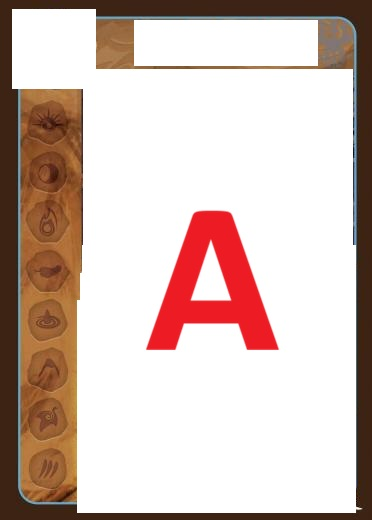
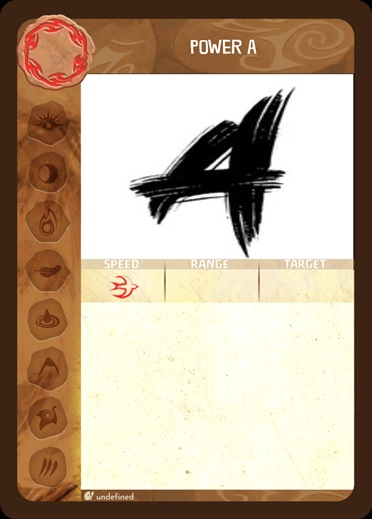
1. Replaced art with better art made by Sloverlord 2. Fixed all cards speed to slow 3. Changed tracks to 7 spots per row 4. Gave spirit a custom resource tracker

diff --git a/pbf/migrations/0066_add_custom_placeholder_spirit.py b/pbf/migrations/0066_add_custom_placeholder_spirit.py
@@ -6,12 +6,12 @@ def load_custom(apps, schema_editor):
     Card = apps.get_model("pbf", "Card")
     mijn = Spirit(name="CustomPlaceholder")
     mijn.save()
-    Card(name="CustomPlaceholder Card A", cost=0, type=2, speed=0, spirit=mijn, elements="").save()
-    Card(name="CustomPlaceholder Card B", cost=0, type=2, speed=0, spirit=mijn, elements="").save()
-    Card(name="CustomPlaceholder Card C", cost=0, type=2, speed=1, spirit=mijn, elements="").save()
-    Card(name="CustomPlaceholder Card D", cost=0, type=2, speed=0, spirit=mijn, elements="").save()
-    Card(name="CustomPlaceholder Card E", cost=0, type=2, speed=0, spirit=mijn, elements="").save()
-    Card(name="CustomPlaceholder Card F", cost=0, type=2, speed=0, spirit=mijn, elements="").save()
+    Card(name="CustomPlaceholder Card A", cost=0, type=2, speed=2, spirit=mijn, elements="").save()
+    Card(name="CustomPlaceholder Card B", cost=0, type=2, speed=2, spirit=mijn, elements="").save()
+    Card(name="CustomPlaceholder Card C", cost=0, type=2, speed=2, spirit=mijn, elements="").save()
+    Card(name="CustomPlaceholder Card D", cost=0, type=2, speed=2, spirit=mijn, elements="").save()
+    Card(name="CustomPlaceholder Card E", cost=0, type=2, speed=2, spirit=mijn, elements="").save()
+    Card(name="CustomPlaceholder Card F", cost=0, type=2, speed=2, spirit=mijn, elements="").save()
 
 
 def delete_custom(apps, schema_editor):

diff --git a/pbf/views.py b/pbf/views.py
@@ -458,10 +458,8 @@ spirit_presence = frozendict({
                 # hoard treasure
                 (13,1146,1.0), (83,1146,1.0), (153,1146,1.0), (223,1146,1.0), (293,1146,1.0), (363,1146,1.0), (433,1146,1.0), (503,1146,1.0), (573,1146,1.0), (643,1146,1.0), (713,1146,1.0), (783,1146,1.0), (853,1146,1.0),
                 ),
-        'CustomPlaceholder': ((450, 146, 1.0, ''), (523, 146, 1.0, ''), (596, 146, 1.0, ''), (669, 146, 1.0, ''),
-              (742, 146, 1.0, ''), (815, 146, 1.0, ''),
-              (450, 240, 1.0), (523, 240, 1.0, ''), (596, 240, 1.0, ''), (669, 240, 1.0),
-              (742, 240, 1.0, ''), (815, 240, 1.0)),
+        'CustomPlaceholder': ((432,118,1.0),(504,118,1.0),(576,118,1.0),(648,118,1.0),(720,118,1.0),(792,118,1.0),(864,118,1.0),
+                (432,209,1.0),(504,209,1.0),(576,209,1.0),(648,209,1.0),(720,209,1.0),(792,209,1.0),(864,209,1.0)),
 })
 
 spirit_additional_cards = frozendict({

diff --git a/pbf/models.py b/pbf/models.py
@@ -542,6 +542,7 @@ class GamePlayer(models.Model):
             'IntensifyMemory': 'Prepared Elements',
             'MentorMemory': 'Prepared Elements',
             'Waters': 'Healing Markers',
+            'CustomPlaceholder': 'Custom Resource Tracker'
         }
         return d.get(self.full_name())
 
